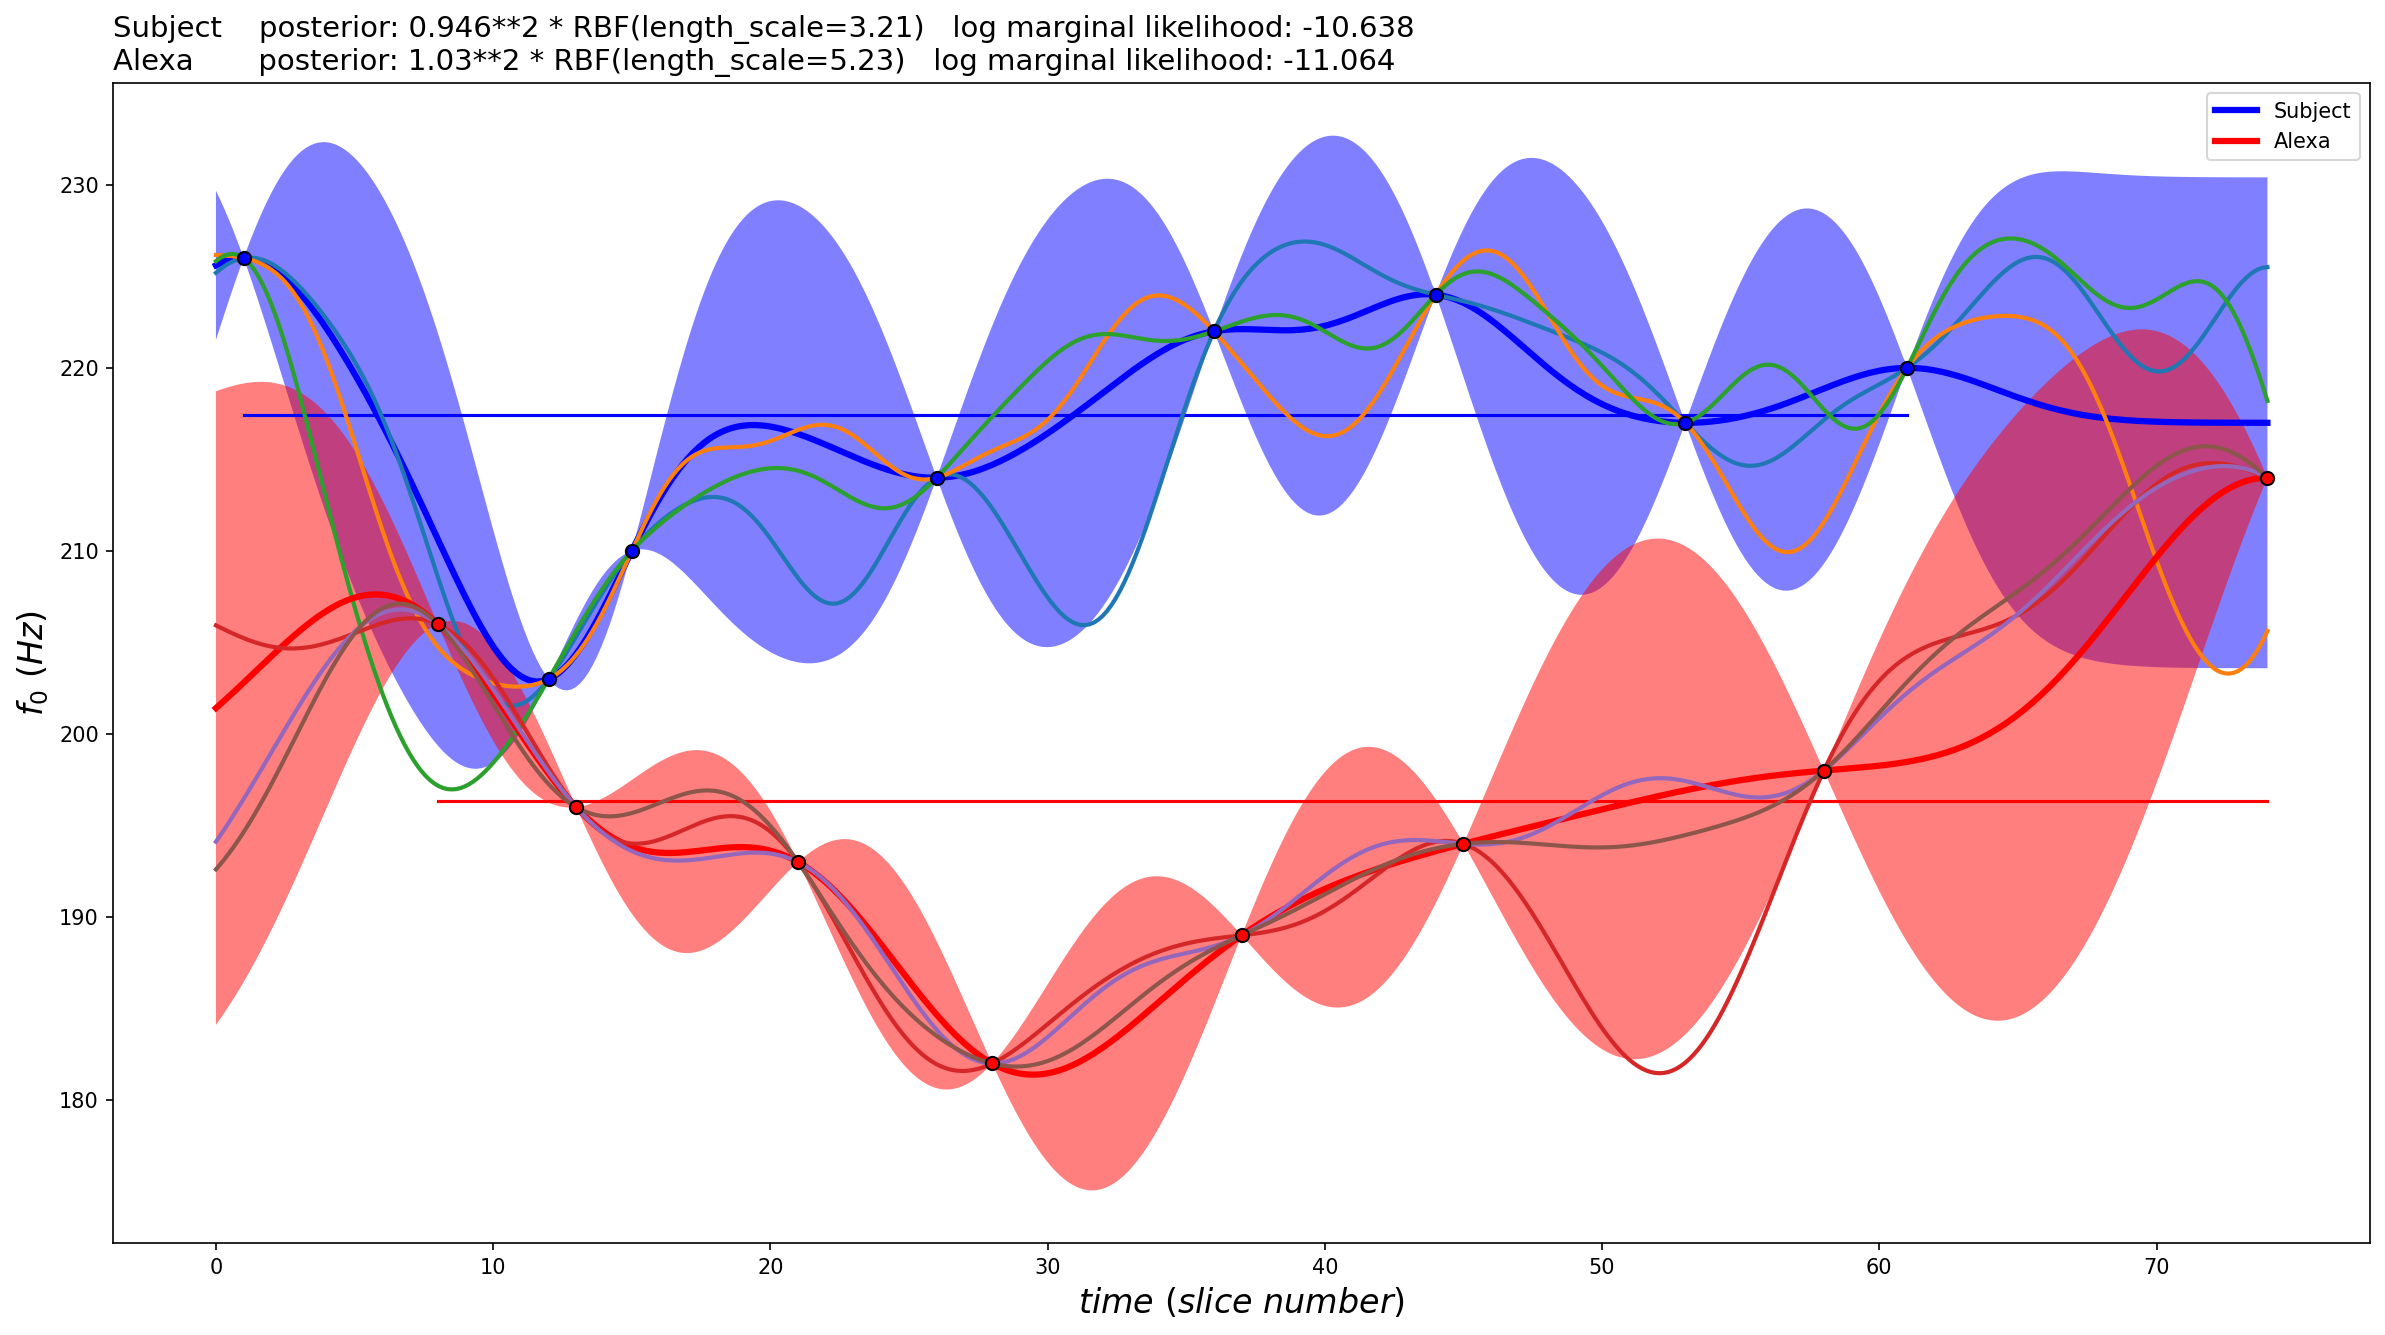
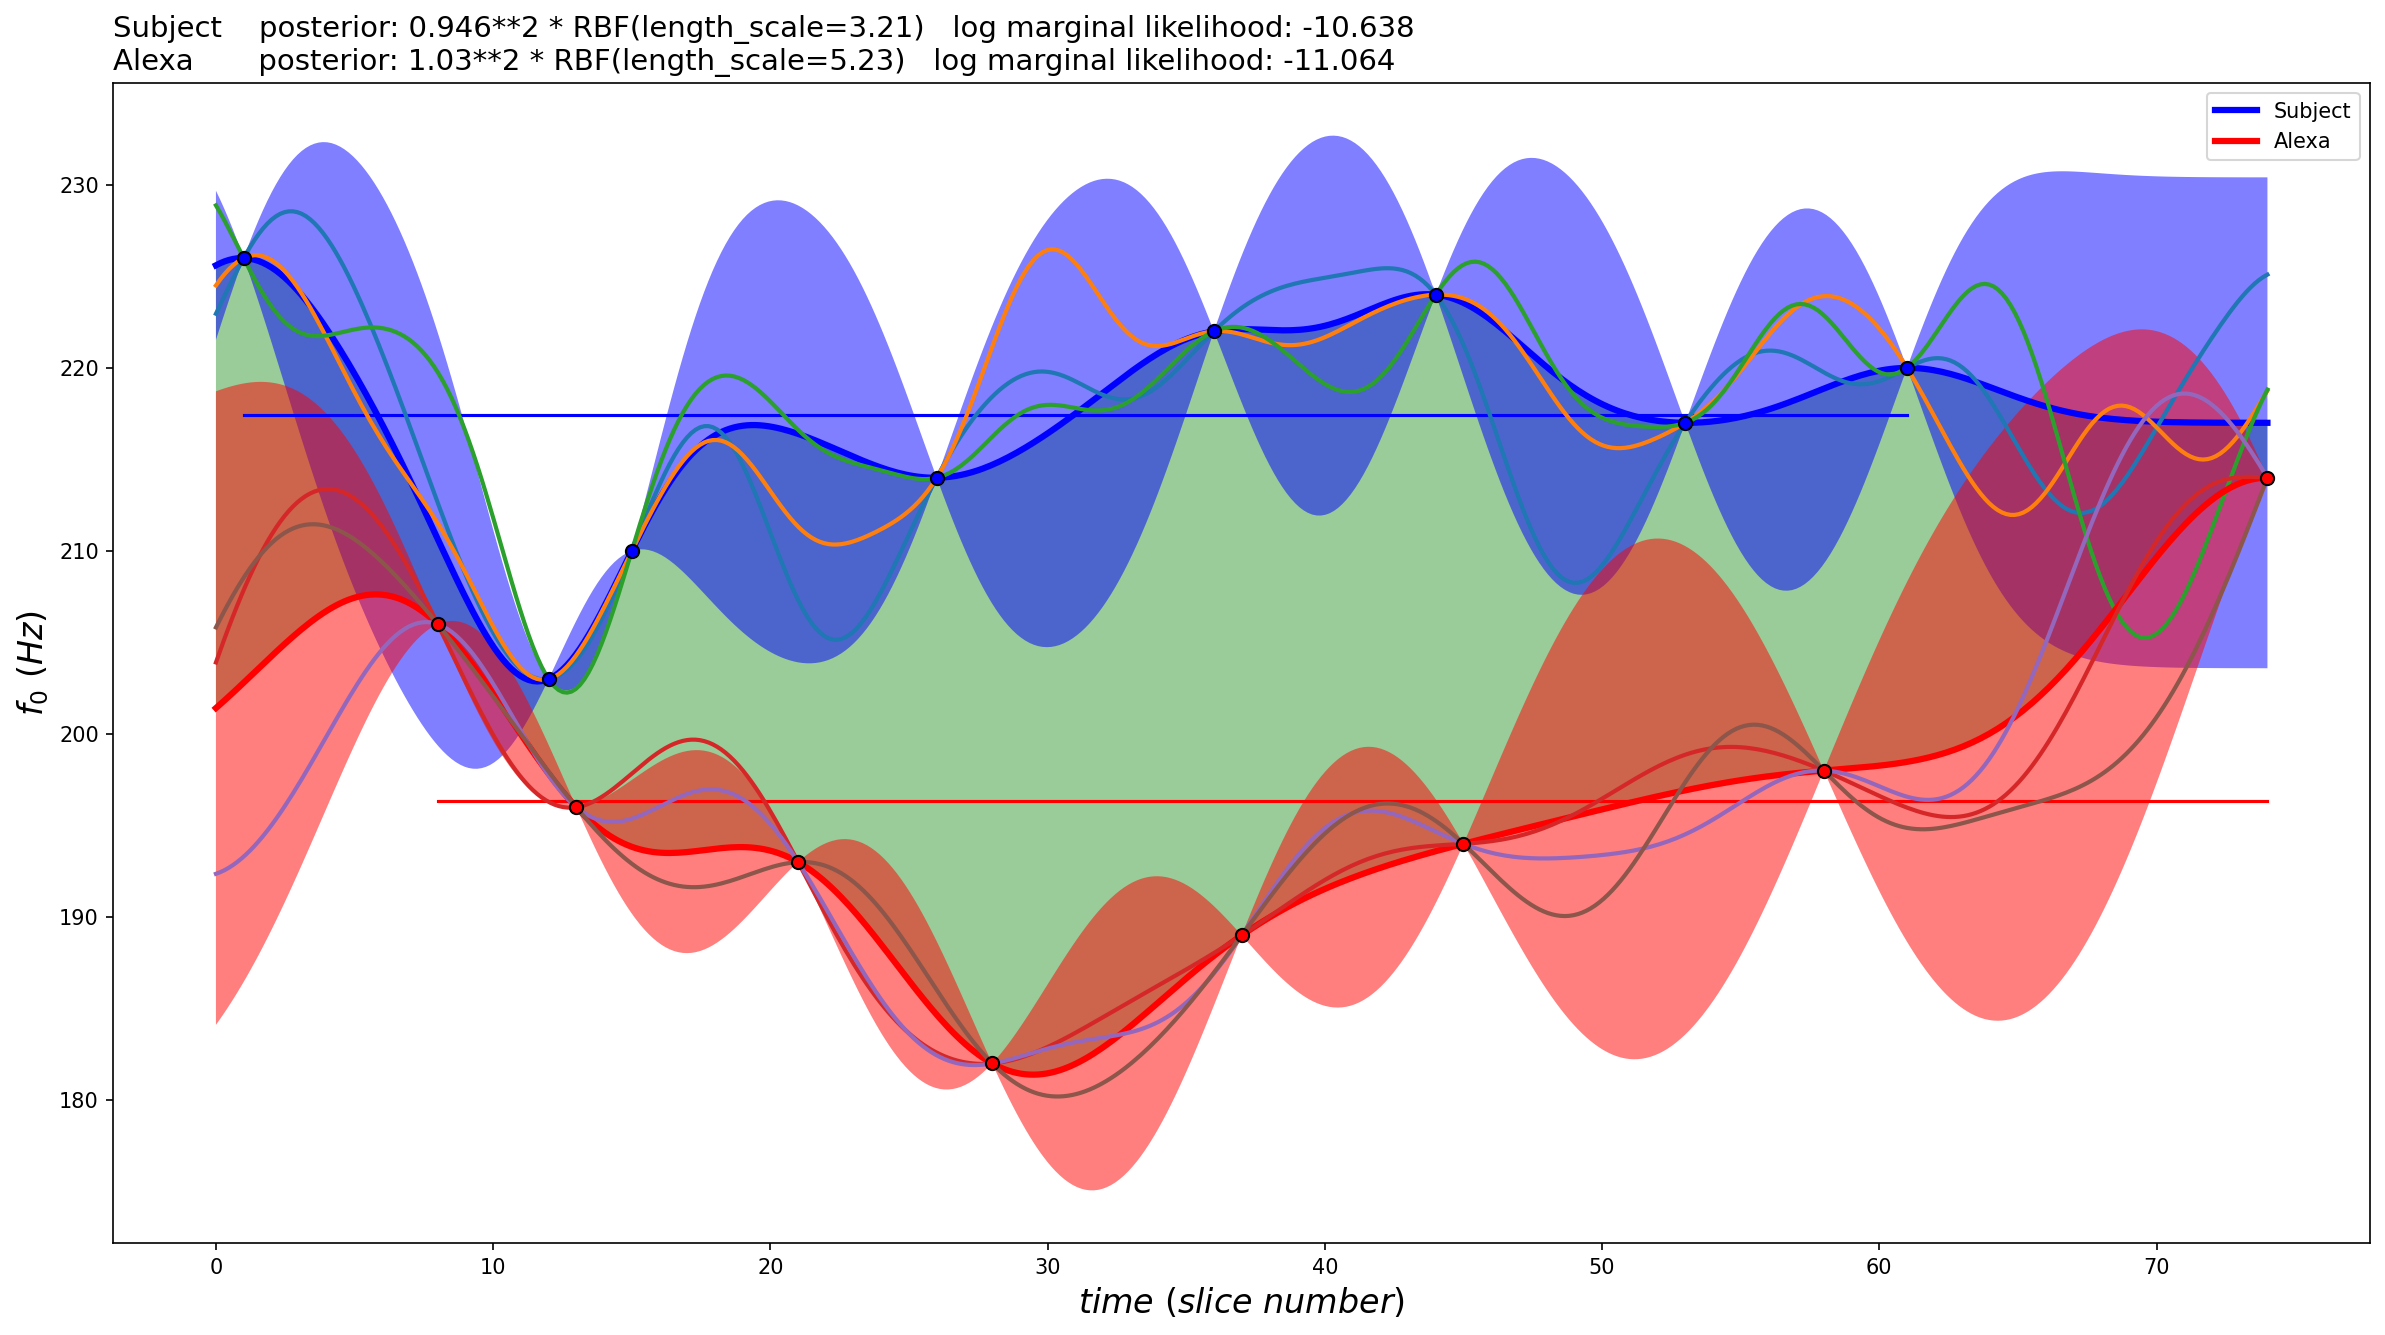
Write about cont. and disc. changes

Changed region(s): [[0.0931, 0.1536, 0.9618, 0.8292], [0.0931, 0.5528, 0.1241, 0.6449], [0.4344, 0.1843, 0.4654, 0.215]]

diff --git a/chapters/stat-model/stat-model.tex b/chapters/stat-model/stat-model.tex
@@ -155,6 +155,7 @@ The kernel was initialized with the priors $C = 1$, $lengthscale = 1$, and no as
 The search boundaries for the RBF and noise components were $1 < lengthscale < 100$ and $\num{1e-4} < \xi < 10$, respectively, with a maximum of six optimization iterations. % the initial one plus five allowed restarts (n_restarts_optimizer parameter in code)
 \todo[inline]{make sure these numbers are up to date}
 \todo[inline]{write about how datapoints where selected from each turn to represent points of change}
+With the fitted kernel, a continuous prediction can be made for each speaker over the entire conversation time span.
 \Cref{fig:gp_vacc} shows an example of \ac{gp} predictions for one of the conversations. % 20171121A_Calendar_01 was used
 %
 \begin{figure}[t]
@@ -166,12 +167,62 @@ The search boundaries for the RBF and noise components were $1 < lengthscale < 1
 		 The additional lines around the means are randomly drawn functions from the fitted kernel representing potential variational output.
 		 The colored areas around the means lines show the \SI{95}{\percent} confident interval for the distributions of the same color.
 		 The straight horizontal lines indicate the overall mean of each speaker's productions.
-		 The posterior parameters and the log marginal likelihood of the fitted distributions are stated at the top.}
+		 The posterior parameters and the log marginal likelihoods of the fitted distributions are stated at the top.}
 	\label{fig:gp_vacc}
 \end{figure}
 
-\section{Measuring degree of change}
+\section{Marking degrees of change}
 \label{sec:measuring_changes}
+
+Once a regression line is drawn for each speaker from their respective distributions, the differences between the speakers' productions can be measured.
+Furthermore, due to the higher temporal resolution, more fine-grained degrees of change over time can be calculated as well.
+The differences are calculated by the subtracting the trapped areas between the two regression lines (see \cref{fig:gp_vacc})
+%
+\begin{equation}
+	f_{diff} \equiv\Delta\vec{x}_* =
+	\int_{\vec{x}_i}^{\vec{x}_{j}}\mu_{f_*subject} -
+	\int_{\vec{x}_i}^{\vec{x}_{j}}\mu_{f_*alexa}
+\end{equation}
+% - 
+and the directional derivatives of the resulted delta line to measure the degree of change
+%
+\begin{equation}
+	\nabla\Delta\vec{x}_*' = \frac{d}{dx}f_{diff}
+\end{equation}
+%
+along the difference line.
+\Cref{fig:diff_and_derivatives} demonstrates this on the same conversation from \cref{fig:gp_vacc} using the mean predictions of each speaker.
+%
+\begin{figure}[t]
+	\centering
+	\includegraphics[width=\textwidth]{diff_and_derivatives}
+	\caption[Continuous integral differences and derivatives in a \acl{hci}]
+		{Continuous integral differences (red line) and their corresponding derivatives (blue line) of speakers' productions in a conversation.}
+	\label{fig:diff_and_derivatives}
+\end{figure}
+%
+For building a generative model as described in \crefrange{sec:accommodation_as_a_lm}{clustering_and_incremental_generation}, the changes must be marked with pre-defined labels.
+To that end, the derivative values were translated into a continuum of change ranging from \textit{divergence} to \textit{convergence}.
+Based on this continuum, a discrete scale can be defined.
+The more categories this discrete scale offers, the more specific the behavior descriptions can be.
+\Cref{fig:cont_disc_scales} shows this process for a discrete scale of three categories: divergence, no (major) change, and convergence.
+%
+\begin{figure}[t]
+	\centering
+	\subfigure[Continuous scale]
+		{\includegraphics[width=0.47\textwidth]{cont_scale}
+	\label{fig:continuous_scale}}
+	\hfill
+%	\vspace{-1cm}\hfill\hspace{-1cm}{\hbox{\LARGE $\Longrightarrow$}}\hfill
+	\subfigure[Discrete scale]
+		{\includegraphics[width=0.47\textwidth]{discrete_scale}
+	\label{fig:discrete_scale}}
+	\caption[Continuous and discrete scales for labeling degrees of change]
+		{Continuous and discrete color-coded scales for labeling degrees of change in a conversation.}
+	\label{fig:cont_disc_scales}
+\end{figure}
+\todo[inline]{more details regarding how the discrete categories are defined}
+
 
 \section{Accommodation as a language model}
 \label{sec:accommodation_as_a_lm}
